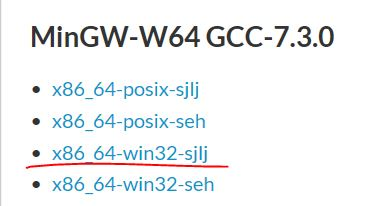
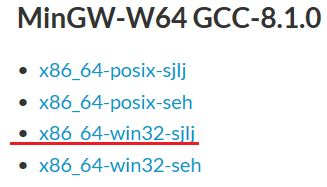
update S2019

diff --git a/guide/Beginner2BuildeSoftwareEnvironment.md b/guide/Beginner2BuildeSoftwareEnvironment.md
@@ -6,22 +6,24 @@ https://github.com/PySEE/home/tree/S2019/guide/AdvWorkingDir.md
 
 then,following the steps
 
-* [A: Python](#A:Python) Python, Autopep8,Pylint,IDLE
+* [1: Python](#1:Python) Python, Autopep8,Pylint,IDLE
 
-* [B: Jupyter Notebook](#B:Jupyter): Jupyter Notebook, PySEE/Home
+* [2: Jupyter Notebook](#2:Jupyter): Jupyter Notebook, PySEE/Home
 
-* [C: Visual Studio Code](#C:VSCode): Markdown,Python
+* [3: MinGW-W64(GCC)](#3:MinGW-W64): MinGW-W64(`GCC`)
+
+* [4: Visual Studio Code](#4:VSCode): Markdown,Python,C/C++
   
-* [D: Git/Github](#D:Git): `Clone` PySEE/home
+* [5: Git/Github](#5:Git): `Clone` PySEE/home
 
-## A:Python
+## 1:Python
 
 Goto the official Python site  https://www.python.org/downloads/ to download the suitable version Python，e.g.**Python for Windows**： https://www.python.org/downloads/windows/
 
 Python 3.7.0 for Windows x86-64 executable installer：
 https://www.python.org/ftp/python/3.7.0/python-3.7.0-amd64.exe
 
-###  Customize Installation
+###  1.1 Customize Installation Python
       
 * 1  Make sure you **check** option **Add Python 3.7 to PATH**
 
@@ -33,17 +35,15 @@ https://www.python.org/ftp/python/3.7.0/python-3.7.0-amd64.exe
 ![Python3-location](./img/python37-location.jpg)
    
 
-### Install Packages
+### 1.2 The Python Package Index(PyPI)
 
-The Python Package Index(PyPI) is a repository of software for the Python programming language.
-
-https://pypi.org/
-
-#### Use `pip` to install packages
+The Python Package Index(PyPI) is a repository of software for the Python programming language.: https://pypi.org/
 
 `pip` is a package manage for Python. It makes installing and uninstalling Python packages
 
-**install** 
+* Installing Python Modules : https://docs.python.org/3/installing/
+
+**1.2.1 Install** 
 
 The following command will install the latest version of a module and its dependencies from the Python Packaging Index:
 
@@ -51,70 +51,98 @@ The following command will install the latest version of a module and its depend
 >python -m pip install SomePackage  
 ```
 
-**Upgrading**
-Normally, if a suitable module is already installed, attempting to install it again will have no effect. Upgrading existing modules must be requested explicitly:
+Install the  multiple modules at the one `pip install` command
+
+```bash
+>python -m pip install SomePackage1  SomePackage2 
+```
+
+**1.2.2 Upgrading**
+Normally, if a suitable module is already installed, attempting to install it again will have no effect. Upgrading existing modules must be requested **explicitly**:
 
 ```bash
 >python -m pip install --upgrade SomePackage  
 ```
-
-**use the `mirror site`  to install for the speed**
+or
 
 ```bash
->python -m pip install SomePackage  -i  mirrorsite  
+>python -m pip install -U SomePackage  
+```
+
+**1.2.3 Install from an alternate index**
+
+```bash
+>python -m pip install SomePackage  -i  the-url-of-an-alternate-index
 ``` 
 
-install from the mirror site `@tsinghua`: https://pypi.tuna.tsinghua.edu.cn/simple
+Install from `@tsinghua` for the **higher speed**: https://pypi.tuna.tsinghua.edu.cn/simple 
 
 ```bash
 >pip  install packagename  -i  https://pypi.tuna.tsinghua.edu.cn/simple
 ```
 
-**uninstall**  
+**1.2.4 set one alternate index site as the default site**
+
+* if pip>10.0
+
+```bash
+>pip config set global.index-url https://pypi.tuna.tsinghua.edu.cn/simple
+```
+
+**1.2.5 uninstall**  
 
 ```bash
 >pip uninstall packagename  
 ```
 
-**Show help for commands**
+**1.2.6 Show help for commands**
 
 ```bash
 >pip  help  
 ```
 
-#### update `pip` to the most recent version
+### 1.3 Install Packages
+
+#### 1.3.1 update `pip` to the most recent version
 
 ```bash
 >python -m pip install -U pip -i  https://pypi.tuna.tsinghua.edu.cn/simple
 ```
+
 ![Python3-update](./img/python37-update-pip.jpg)
 
-#### Install autopep8, pylint
+#### 1.3.2 set `tsinghua` as default site 
+
+```bash
+>pip config set global.index-url https://pypi.tuna.tsinghua.edu.cn/simple
+```
+
+#### 1.3.3 Install autopep8, pylint
 
 ```bash  
->python -m pip install autopep8 -i  https://pypi.tuna.tsinghua.edu.cn/simple
->python -m pip install pylint -i  https://pypi.tuna.tsinghua.edu.cn/simple
+>python -m pip install autopep8 
+>python -m pip install pylint
 ```
 
 or
 
 ```bash  
->python -m pip install autopep8 pylint -i  https://pypi.tuna.tsinghua.edu.cn/simple
+>python -m pip install autopep8 pylint
 ```
 
-### Using IDLE
+### 1.4 Using IDLE
 
 ![idle](./img/idle.png)
 
-## B:Jupyter
+## 2:Jupyter
 
-### Install 
+### 2.1 Install 
   
 ```bash       
->python -m pip install jupyter  -i  https://pypi.tuna.tsinghua.edu.cn/simple
+>python -m pip install jupyter
 ```    
 
-### Using
+### 2.2 Using
 
 ```bash       
 >jupyter notebook
@@ -124,13 +152,13 @@ or
 
 ![ipynb-2](./img/ipynb-2.png)
 
-* Literate programming your Jupyter Notebook in the `specific working folder`：
+### 2.3 Literate programming your Jupyter Notebook in the `specific working folder`
 
-  * `1` make the specific folder for  your **Jupyter Notebook**,for example: `D:/mynotebook`
+* `2.3.1` make the specific folder for  your **Jupyter Notebook**,for example: `D:/mynotebook`
 
-  * `2` **Open a cmd window in the folder**:  If you're already in the folder you want, you do `Shift+[mouse right-click]` on the background of the Explorer window, then click on "Open command window here" or "Open PowerShell window here"
+* `2.3.2` **Open a cmd window in the folder**:  If you're already in the folder you want, you do `Shift+[mouse right-click]` on the background of the Explorer window, then click on "Open command window here" or "Open PowerShell window here"
 
-  * `3` Enter `jupyter notebook` in cmd window of the folder,you will see the active jupyter server. the folder is the default  folder of your Jupyter Notebook 
+* `2.3.3` Enter `jupyter notebook` in cmd window of the folder,you will see the active jupyter server. the folder is the default  folder of your Jupyter Notebook 
 
    ![jupyter-cmd](./img/jupyter-cmd.jpg) 
 
@@ -142,37 +170,75 @@ or
 
  ![jupyter-quick](./img/jupyter-bat.jpg) 
 
-### Using the Jupyter Notebook of  PySEE/hone
+### 2.4 Using the Jupyter Notebook of PySEE/home
 
-* Go to the repo **home** on the Github: https://github.com/PySEE/home download `home.zip`
+**2.4.1** Go to the repo **home** on the Github: https://github.com/PySEE/home download `home.zip`
 
 ![download home.zip](./img/downloadhome.jpg)
 
-* Start Jupyter Notebook of the course
+**2.4.21** Start Jupyter Notebook of the course
  
   unzip home.zip, double-click  `StartNB.bat`  under the folder of **notebook** to start **Jupyter Notebook** 
 
-## C:VSCode
+## 3:MinGW-W64
+
+* 3.1 Goto MinGW mother site at：https://sourceforge.net/projects/mingw-w64/files/?source=navbar
+
+    * sjlj: 32 and 64 bits,but it incurs a minor performance penalty
+     
+    * seh：64 bits only
+  
+  Download： **GCC 8.1.0 x86_64-win32-sjlj**
+  
+  ![mingw-w64](./img/mingw-w64.jpg)
+
+* 3.2 unzip the ziped MinGW-w64 to **C:\mingw64**
+
+* 3.3 Add **C:\mingw64\bin** to the system environment variable **Path**
+
+    For Windows 10: 
+
+      start  "Windows Start Menu" ⇒ "Settings" ⇒ "About"(at the bottom) ⇒ "System Info"(scroll down)  ⇒ Switch to "Advanced System Settings"  ⇒  "Environment Variables"  ⇒  Choose "System Variables" (for all users) ⇒ Choose the System Variable "**Path**" ⇒ Choose "New" (add a new dir to  **Path** variable) > Enter the value: **C:\mingw64\bin**.
+
+![mingw-w64-path](./img/mingw-w64-path.jpg)
+
+* 3.4 Verify the GCC installation by listing the version of gcc:
+  ```bash
+  > gcc --version
+  ``` 
+
+## 4:VSCode
 
 Visual Studio Code is a lightweight but powerful source code editor which runs on your desktop and is available for Windows, macOS and Linux. It comes with built-in support for JavaScript, TypeScript and Node.js and has a rich ecosystem of extensions for other languages (such as C++, C#, Python, PHP, Go) and runtimes (such as .NET and Unity). 
 
-### Download and Install Visual Studio Code 
+### 4.1 Download and Install Visual Studio Code 
  
     https://code.visualstudio.com/
 
-### Install Python Extension
+### 4.2 Install Python Extension
 
     https://code.visualstudio.com/docs/languages/python
 
-### Using VS Code
+### 4.3 Install the Microsoft C/C++ extension
 
-![vscode](./img/vscode.png)
+    https://code.visualstudio.com/docs/languages/cpp
 
-## D:Git
+### 4.4 Using VS Code
 
-**`1`** Install Git for Windows: https://git-scm.com/download/win
+#### 4.4.1 Python
 
-**`2`** Clone the S2019 branch of the [home](https://github.com/PySEE/home) to your computer
+![vscode-python](./img/vscode-python.png)
+
+####  4.4.2 C/C++
+
+![vscode-gcc](./img/vscode-gcc.jpg)
+
+
+## 5:Git
+
+**`5.1`** Install Git for Windows: https://git-scm.com/download/win
+
+**`5.2`** Clone the S2019 branch of the [home](https://github.com/PySEE/home) to your computer
 
 ```bash
 >git clone --depth 1 -b S2019 https://github.com/PySEE/home.git

diff --git a/guide/SoftwareEnvironment.md b/guide/SoftwareEnvironment.md
@@ -67,14 +67,18 @@ From a command prompt:
   >python -m pip install -U pip -i  https://pypi.tuna.tsinghua.edu.cn/simple/
 ```
 
+* set `tsinghua` as the default site 
+
+```bash
+>pip config set global.index-url https://pypi.tuna.tsinghua.edu.cn/simple
+```
+
 ### 2 Install Jupyter Notebook
 
 * From a command prompt, install using pip：
 
-Install from the mirror site　@ tsinghua
-
 ```bash  
->python -m pip install jupyter -i  https://pypi.tuna.tsinghua.edu.cn/simple/
+>python -m pip install jupyter
 ```  
 * From a command prompt,start **Jupyter notebook**
 
@@ -99,15 +103,15 @@ Install from the mirror site　@ tsinghua
    Numpy,Scipy, Matplotlib https://www.scipy.org/install.html 
 
 ```bash       
-> python -m pip install numpy -i https://pypi.tuna.tsinghua.edu.cn/simple/
-> python -m pip install scipy -i  https://pypi.tuna.tsinghua.edu.cn/simple/
-> python -m pip install matplotlib -i https://pypi.tuna.tsinghua.edu.cn/simple/
+> python -m pip install numpy 
+> python -m pip install scipy
+> python -m pip install matplotlib
 ``` 
 
 or 
 
 ```bash       
-> python -m pip install numpy scipy matplotlib -i https://pypi.tuna.tsinghua.edu.cn/simple/
+> python -m pip install numpy scipy matplotlib
 ``` 
 ### 4 IAPWS-IF97 Packages
 
@@ -116,13 +120,13 @@ or
    pre-installed:numpy and scipy
 
 ```bash       
-   > python -m pip install iapws https://pypi.tuna.tsinghua.edu.cn/simple/
+   > python -m pip install iapws 
 ``` 
 
 * 4.2 Shared Lib IAPWS-IF97
 
 ```bash       
-> python -m pip install seuif97 https://pypi.tuna.tsinghua.edu.cn/simple/
+> python -m pip install seuif97 
 ``` 
 
 or
@@ -148,7 +152,7 @@ Go to the repo on the Github：https://github.com/PySEE/SEUIF97 , download SEUIF
 * `2` Requirements file [requirements.txt](./requirements.txt) is the file containing a list of items to be installed for the course:
 
 ```bash 
->python -m pip install -r requirements.txt -i https://pypi.tuna.tsinghua.edu.cn/simple
+>python -m pip install -r requirements.txt 
 ```
 
 ### 5 Visual Studio Code
@@ -211,7 +215,9 @@ Visual Studio Code is a lightweight but powerful source code editor which runs o
 
 ![mingw-w64-path](./img/mingw-w64-path.jpg)
 
-* 4 Verify the GCC installation by listing the version of gcc, g++ and gdb:
+* 4.RENAME `C:\mingw64\bin\mingw32-make.exe` to  `C:\mingw64\bin\make.exe`
+
+* 5 Verify the GCC installation by listing the version of gcc, g++ and gdb:
   ```bash
   > gcc --version
   > g++ --version

diff --git a/Outline.md b/Outline.md
@@ -14,7 +14,7 @@
 
      * [Setup the working folder for the course](./guide/AdvWorkingDir.md)
      
-     * [Install Softwares: Python,Jupyter,Visual Studio Code, Git(optional)](./guide/Beginner2BuildeSoftwareEnvironment.md)
+     * [Install Softwares: Python,Jupyter,MinGW-W64,Visual Studio Code,Git(optional)](./guide/Beginner2BuildeSoftwareEnvironment.md)
 
      * [Download the Home of PySEE, Using Juyter Notebooks of the course](https://github.com/PySEE/home)
    
@@ -234,7 +234,7 @@
 
    * **Homework**
 
-     * [Install GCC for Windows](https://github.com/PySEE/home/blob/S2019/SoftwareEnvironment.md)
+     * [GCC for Windows](https://github.com/PySEE/home/blob/S2019/Beginner2BuildeSoftwareEnvironment.md)
 
 * [CPP_1_GCC_DLL](http://nbviewer.ipython.org/github/PySEE/home/tree/S2019/notebook/CPP_1_GCC_DLL.ipynb)
 

diff --git a/README.md b/README.md
@@ -56,7 +56,7 @@ We will cover:
 
 The Course graded on an 100 point scale and then weighted according to the following distribution:
 
-  * In-class Exercises: 20%
+  * In-class Exercises: 15%
   * **Practices(5):60%**, Bonus: +5
   * Final Exam: 20%
   
